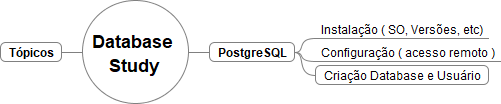
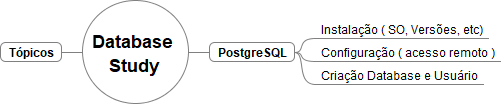
.

Changed region(s): [[0.5988, 0.5481, 0.988, 0.8077], [0.9581, 0.7788, 0.988, 0.8077]]

diff --git a/doc/images/MindMap - DatabaseStudy - PostgreSQL.mm b/doc/images/MindMap - DatabaseStudy - PostgreSQL.mm
@@ -18,7 +18,7 @@
 <font BOLD="true" NAME="SansSerif" SIZE="12"/>
 <node CREATED="1554482598244" ID="ID_1667706244" MODIFIED="1554482677610" STYLE="fork" TEXT="Instala&#xe7;&#xe3;o ( SO, Vers&#xf5;es, etc)"/>
 <node CREATED="1554482629353" ID="ID_891354362" MODIFIED="1554482684211" STYLE="fork" TEXT="Configura&#xe7;&#xe3;o ( acesso remoto )"/>
-<node CREATED="1554482686771" ID="ID_1909682542" MODIFIED="1554482693107" TEXT="Cria&#xe7;&#xe3;o Database e Usu&#xe1;rio"/>
+<node CREATED="1554482686771" ID="ID_1909682542" MODIFIED="1554482938019" STYLE="fork" TEXT="Cria&#xe7;&#xe3;o Database e Usu&#xe1;rio"/>
 </node>
 <node CREATED="1553633855150" ID="ID_958783709" MODIFIED="1553633931661" POSITION="left" STYLE="bubble" TEXT="T&#xf3;picos">
 <font BOLD="true" NAME="SansSerif" SIZE="12"/>

diff --git a/postgresql/README.md b/postgresql/README.md
@@ -4,9 +4,15 @@
 
 Esta seção **PostgreSQL** do repositório [Study Database](https://github.com/josemarsilva/study-database) aborda os seguintes assuntos:
 
-* [Instalação PostgreSQL](#31-instalação-postgresQL)
+* [Instalação PostgreSQL](#31-instalação-postgresql)
+  * [Instalação CentOS 7](#a-instalação-CentOS-7)
+  * [Instalação CentOS 6](#b-instalação-CentOS-6)
+  * [Instalação CentOS 6 - Baixando pacotes RPM manualmente](#b-instalação-CentOS-6---baixando-pacotes-rpm-manualmente)
+  * [Regras de Firewall](#d-regras-de-firewall)
 * [Configuração do PostgreSQL para acesso externo](#32-configuração-do-postgresQL-para-acesso-externo)
 * [Criacao de database e usuarios](#32-criacao-de-database-e-usuarios)
+* [Instalar Psycopg2 para conexao Python - PostgreSQL](#33-instalar-psycopg2-para-conexao-python---postgresql)
+* [Python conectando Postgresql via psycopg e executando query](#34-python-conectando-ostgresql-via-psycopg-e-executando-query)
 
 
 ### 2. Mapa Mental
@@ -18,13 +24,10 @@ Esta seção **PostgreSQL** do repositório [Study Database](https://github.com/
 
 ### 3.1. Instalação PostgreSQL
 
-#### a. Referências
-* https://www.linode.com/docs/databases/postgresql/how-to-install-postgresql-relational-databases-on-centos-7/
-* https://tecadmin.net/install-postgresql-on-centos-rhel-and-fedora/
+#### a. Instalação CentOS 7
 
-#### b. Instalação CentOS 7
-
-* Step-01: Instalação do pacote padrao do CentOS 7
+* [Referências](https://www.linode.com/docs/databases/postgresql/how-to-install-postgresql-relational-databases-on-centos-7)
+* Step-by-step: Instalação do pacote padrao do CentOS 7
 
 ```sh
 # sudo yum update
@@ -33,6 +36,79 @@ Esta seção **PostgreSQL** do repositório [Study Database](https://github.com/
 # sudo systemctl start postgresql
 # sudo systemctl enable postgresql
 ```
+
+#### b. Instalação CentOS 6
+
+* [Referências](https://tecadmin.net/install-postgresql-on-centos-rhel-and-fedora/)
+* Step-by-step: Instalação do pacote padrao do CentOS 6
+
+```sh
+# sudo yum update
+# sudo yum install postgresql-server postgresql-contrib
+# service postgresql initdb
+# service postgresql start
+# chkconfig postgresql on
+```
+
+
+#### c. Instalação manual PostgreSQL
+* [Referências](https://yum.postgresql.org/rpmchart.php) e [Download RPM PostgreSQL 9.6](https://yum.postgresql.org/9.6/redhat/rhel-6-x86_64/repoview/)
+* [Referências](https://www.tecmint.com/install-postgresql-on-centos-rhel-fedora/)
+
+```sh
+yum update
+yum install wget -y
+yum install curl -y
+wget https://yum.postgresql.org/9.6/redhat/rhel-6-x86_64/postgresql96-9.6.12-1PGDG.rhel6.x86_64.rpm
+wget https://yum.postgresql.org/9.6/redhat/rhel-6-x86_64/postgresql96-contrib-9.6.12-1PGDG.rhel6.x86_64.rpm
+wget https://yum.postgresql.org/9.6/redhat/rhel-6-x86_64/postgresql96-libs-9.6.12-1PGDG.rhel6.x86_64.rpm
+wget https://yum.postgresql.org/9.6/redhat/rhel-6-x86_64/postgresql96-server-9.6.12-1PGDG.rhel6.x86_64.rpm
+wget http://mirror.centos.org/centos/6/os/x86_64/Packages/libxslt-1.1.26-2.el6_3.1.x86_64.rpm
+
+yum install libxslt-1.1.26-2.el6_3.1.x86_64.rpm
+yum install postgresql96-libs-9.6.12-1PGDG.rhel6.x86_64.rpm
+yum install postgresql96-9.6.12-1PGDG.rhel6.x86_64.rpm
+yum install postgresql96-server-9.6.12-1PGDG.rhel6.x86_64.rpm
+yum install postgresql96-contrib-9.6.12-1PGDG.rhel6.x86_64.rpm
+
+# Expected: Nothing to do
+yum install postgresql96-server postgresql96 postgresql96-contrib 
+
+# Expected: Initializing database: [  OK  ]
+service postgresql-9.6 initdb
+
+# Expected: Starting postgresql-9.6 service: [  OK  ]
+service  postgresql-9.6 start
+chkconfig postgresql-9.6 on
+
+# Expected: psql (9.6.12) - List of databases ...
+su - postgres
+psql
+postgres=# \l
+postgres=# \q
+```
+
+
+#### d. Regras de Firewall
+
+```sh
+vim /etc/sysconfig/iptables
+  :
+-A INPUT -m state --state NEW -m tcp -p tcp --dport 5432 -j ACCEPT
+  :
+
+service iptables reload
+```
+
+```sh
+vim /etc/sysconfig/ip6tables
+  :
+-A INPUT -m state --state NEW -m tcp -p tcp --dport 5432 -j ACCEPT
+  :
+
+service ip6tables reload
+```
+
 
 
 ### 3.2. Configuração do PostgreSQL para acesso externo
@@ -62,15 +138,80 @@ $ psql
 $ psql
 postgres=# create database dbsample;
 postgres=# CREATE USER dbuser WITH PASSWORD 'dbuser';
+\l
+\q
 ```
 
 
 * Step-2: Teste de conexão remota
 
 ```sh
-psql -h 127.0.0.1 dbsample -U dbuser 
+psql -h 127.0.0.1 -U dbuser dbsample
 Password for user dbuser: dbuser
 dbsample=> \q
 ```
 
+
+### 3.3. Instalar Psycopg2 para conexao Python - PostgreSQL
+
+* Step-1: Instalar Psycopg2
+
+```sh
+sudo yum install python-psycopg2
+# verifique instalação do psycopg, o resultado do comando deve ser algo parecido com este ...
+yum list installed python-psycopg2 
+Installed Packages
+python-psycopg2.x86_64                     2.5.1-3.el7                     @base
+```
+
+* Referências:
+  * [Installing Psycopg for Red Hat Enterprise Linux](https://www.luminanetworks.com/docs-lsc-610/Topics/SDN_Controller_Software_Installation_Guide/Appendix/Installing_Psycopg_for_Red_Hat_Enterprise_Linux_1.html)
+
+
+### 3.4. Python conectando Postgresql via psycopg e executando query
+
+```sh
+vim hello-world-psycopg.py
+#!/usr/bin/python
+import psycopg2
+import sys
+
+def main():
+        conn_string = "host='127.0.0.1' dbname='dbsample' user='dbuser' password='dbuser'"
+        print "Connecting to database\n ->%s" % (conn_string)
+        conn = psycopg2.connect(conn_string)
+        cursor = conn.cursor()
+        print "Connected!\n"
+        cursor.execute("""SELECT schemaname || '.' || tablename AS schema_table_name FROM pg_catalog.pg_tables ORDER BY schemaname, tablename""")
+        rows = cursor.fetchall()
+        print "\nShow me the databases:\n"
+        for row in rows:
+                print "   ", row[0]
+
+if __name__ == "__main__":
+        main()
+```
+
+```sh
+# Executando script ...
+python hello-world-psycopg.py
+```
+
+```sh
+Connecting to database
+ ->host='127.0.0.1' dbname='dbsample' user='dbuser' password='dbuser'
+Connected!
+
+
+Show me the databases:
+
+    information_schema.sql_features
+    information_schema.sql_implementation_info
+    information_schema.sql_languages
+      :
+```
+
+
+* Referências:
+  * [Psycopg Tutorial](https://wiki.postgresql.org/wiki/Psycopg2_Tutorial)
 
